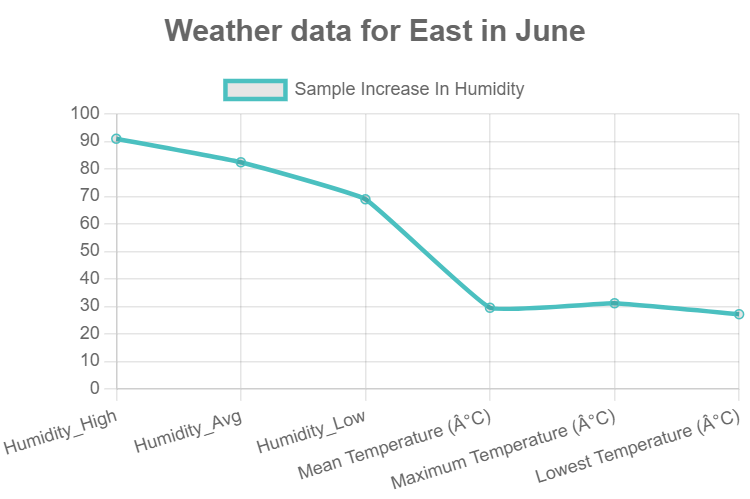
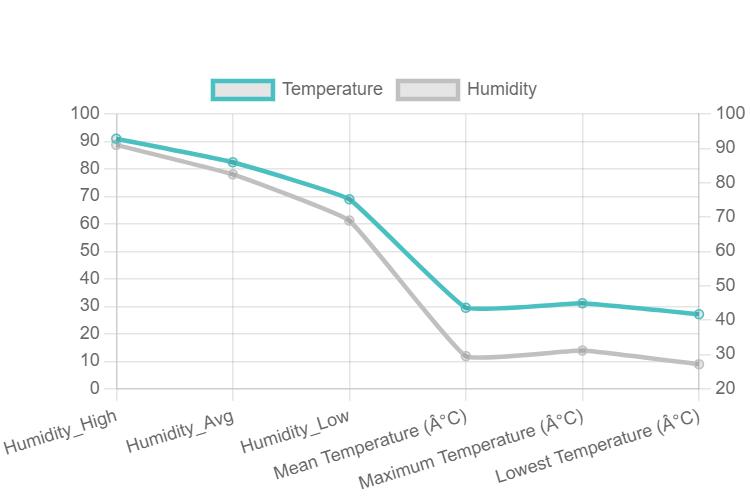
temp changes

diff --git a/Static/js/Chart_Scripts.js b/Static/js/Chart_Scripts.js
@@ -18,12 +18,22 @@ function createLineChart(title, data, labels, canvasName) {
             data: {
                 labels: labels[i],
                 datasets: [{
-                    label: 'Sample Increase In Humidity',
+                    label: 'Temperature',
                     data: data[i],
                     fill : false,
                     borderColor: 'rgb(75, 192, 192)',
-                    tension: 0.1
-                }]
+                    tension: 0.1,
+                    yAxisID: 'y',
+                }, 
+                {
+                    label: 'Humidity',
+                    data: data[i],
+                    fill : false,
+                    borderColor: 'rgb(192, 192, 192)',
+                    tension: 0.1,
+                    yAxisID: 'y1',
+                }
+            ]
             },
             options: {
                 plugins: {
@@ -40,8 +50,21 @@ function createLineChart(title, data, labels, canvasName) {
                 },
                 scales: {
                     y: {
-                        beginAtZero: true
-                    }
+                        beginAtZero: true,
+                        type: 'linear',
+                        display: true,
+                        position: 'left',
+                    },
+                    y1: {
+                        type: 'linear',
+                        display: true,
+                        position: 'right',
+                
+                        // grid line settings
+                        grid: {
+                          drawOnChartArea: false, // only want the grid lines for one axis to show up
+                        },
+                      },
                 }
             }
         });
